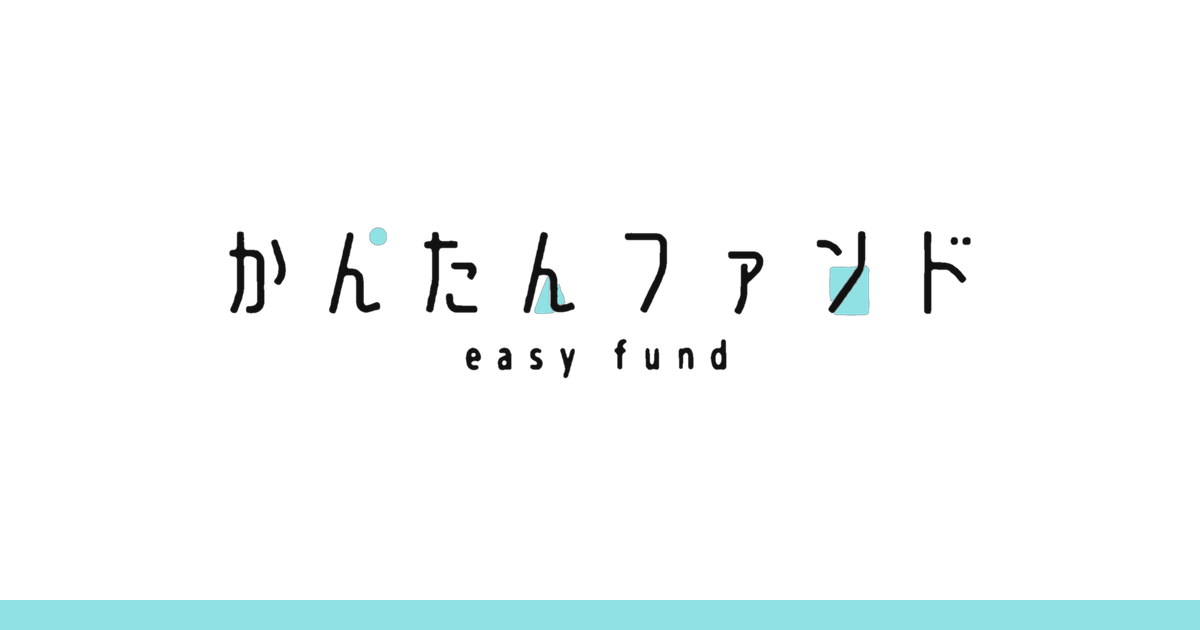
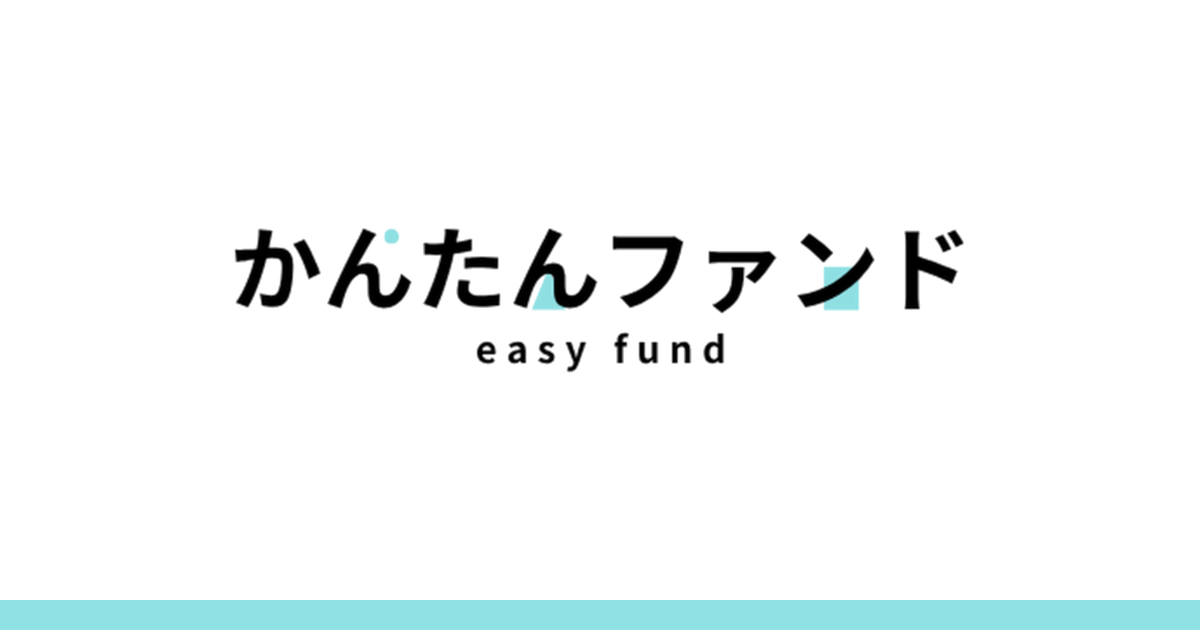
納品されたロゴに差し替える（ヘッダー・フッター用の画像と OG 画像を作り直す）
Claude-Session: https://claude.ai/code/session_01QmSadMkFaUhyLZeLxfGT3A

Changed region(s): [[0.185, 0.3619, 0.8017, 0.6032]]

diff --git a/src/styles/global.css b/src/styles/global.css
@@ -3,7 +3,7 @@
 @theme {
   --font-body: "Noto Sans JP", sans-serif;
 
-  /* ブランドカラー（水色。旧サイトから使い続けるロゴの飾りの色 #90e1e4）。サイトの色はここで一括管理する（docs/design.md の「配色」）
+  /* ブランドカラー（水色。ロゴの飾りの色 #90e1e4）。サイトの色はここで一括管理する（docs/design.md の「配色」）
      水色はボタン・バッジ・アイコンなどのワンポイントにだけ使い、広い面には使わない
      水色は文字には使わない（白地では読めないため）。水色の上には黒文字を載せる */
   --color-brand-50: #f0fbfc;

diff --git a/docs/design.md b/docs/design.md
@@ -17,7 +17,7 @@
 ## 配色
 
 - 色は `src/styles/global.css` の `@theme` で一括管理する。
-- イメージカラーは旧サイトから使い続けるロゴの水色（`brand-500` `#90e1e4`。ロゴの飾りの色）。主要ボタン・選択中のチップ・フッターは黒（`primary` `#111111`）。
+- イメージカラーはロゴの水色（`brand-500` `#90e1e4`。ロゴの飾りの色で、旧サイトのロゴと同じ）。主要ボタン・選択中のチップ・フッターは黒（`primary` `#111111`）。
 - 水色はワンポイントにだけ使い、広い面（背景の帯・大きな箱）には使わない。使うのは、目立たせたいボタン（記事一覧へのボタンなど。黒の太枠＋水色＋黒文字、ホバーで `bg-highlight-hover`）、カテゴリのバッジ、アイコンの丸、番号の丸（プライバシーポリシーの項目番号など）、文字のマーカー（TOP のキャッチコピーの「わかる！」）、記事の h2 の左の線。
 - 水色は白地の上の文字には使わない（白とのコントラスト比 1.5 で読めないため）。水色の背景（`bg-highlight`）に黒文字（`text-highlight-foreground`）を載せる（コントラスト比 12.7）。
 - リンク文字（`link`）は黒＋下線。
@@ -40,9 +40,9 @@
 
 ## 画像・アイコン
 
-- ロゴは旧サイトから使い続けるロゴ（「かんたんファンド」の黒い文字＋「easy fund」、水色の飾り）。文字入りの画像なので、横にサイト名の文字を並べない（`Logo.astro`。画像の alt がサイト名）。
+- ロゴは 2026年10月に納品されたロゴ（「かんたんファンド」の黒い太字＋「easy fund」、水色の飾り。飾りの色は旧サイトのロゴと同じ `#90e1e4`）。文字入りの画像なので、横にサイト名の文字を並べない（`Logo.astro`。画像の alt がサイト名）。
   - ロゴはまた変わる可能性がある。差し替えるときは `public/images/logo.png`・`logo-white.png` を置き換え、縦横の比が変わったら `Logo.astro` の `width`・`height` を直す（ロゴを使っているのは `Logo.astro` だけ。OG 画像 `public/images/og.png` もロゴ入りなので作り直す）。
-  - 画像は `public/images/logo.png`（白い背景用）と `public/images/logo-white.png`（フッターなど黒い背景用。黒い文字を白にしたもの）。どちらも元の画像の余白を切り抜き、線をなめらかに描き直して背景を透明にしたもの（960×212px）。
+  - 画像は `public/images/logo.png`（白い背景用）と `public/images/logo-white.png`（フッターなど黒い背景用。黒い文字を白にしたもの）。どちらも納品された画像の余白を切り抜き、輪郭をなめらかにして背景を透明にしたもの（960×201px）。
 - アイコンは、ロゴの「ン」の部分（水色の四角＋黒い斜め線）を取り出した形。ロゴは横長で線が細く、小さくすると読めないため、アイコンには使わない。
   - ブラウザのタブ: `public/favicon.svg`（背景は透明）
   - iPhone のホーム画面: `public/apple-touch-icon.png`（180×180、白い背景。`Layout.astro` の `apple-touch-icon`）
